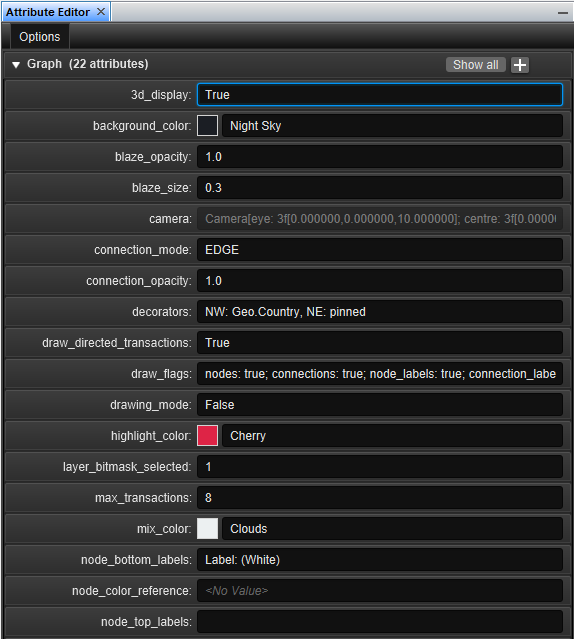
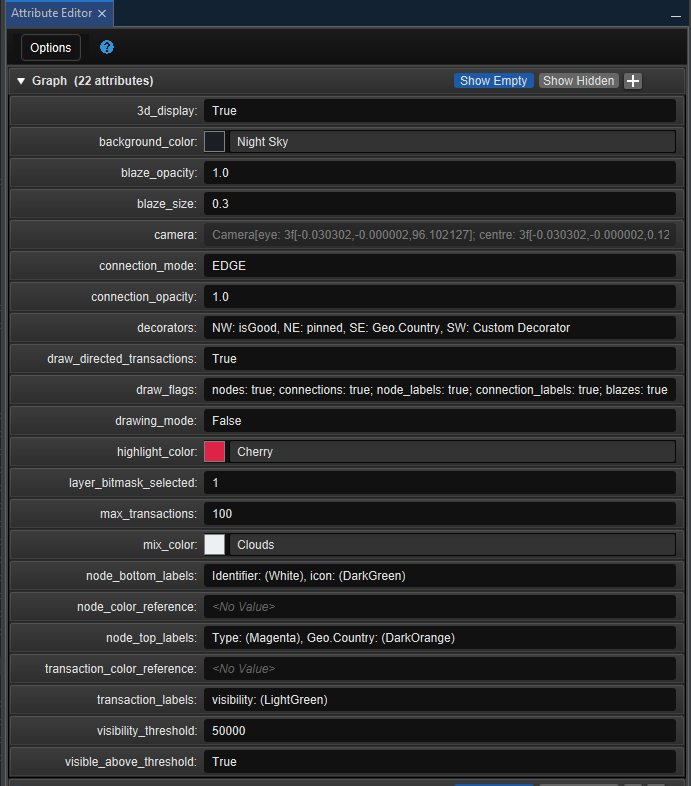
Update attribute editor help

diff --git a/CoreAttributeEditorView/src/au/gov/asd/tac/constellation/views/attributeeditor/resources/attribute-editor-light.css b/CoreAttributeEditorView/src/au/gov/asd/tac/constellation/views/attributeeditor/resources/attribute-editor-light.css
@@ -30,3 +30,10 @@
 .hidden#custom {
     -fx-base:#D3DCF1;
 }
+
+#options-menu {
+    -fx-padding: 3;
+    -fx-color: white;
+    -fx-border-color: none;
+}
+

diff --git a/CoreAttributeEditorView/src/au/gov/asd/tac/constellation/views/attributeeditor/resources/attribute-editor.css b/CoreAttributeEditorView/src/au/gov/asd/tac/constellation/views/attributeeditor/resources/attribute-editor.css
@@ -30,3 +30,9 @@
 .hidden#custom {
     -fx-base:#4f7fba;
 }
+
+#options-menu {
+    -fx-background-color: #121212;
+    -fx-border-color: none;
+}
+

diff --git a/CoreAttributeEditorView/src/au/gov/asd/tac/constellation/views/attributeeditor/AttributeEditorPanel.java b/CoreAttributeEditorView/src/au/gov/asd/tac/constellation/views/attributeeditor/AttributeEditorPanel.java
@@ -102,6 +102,7 @@ import javafx.scene.control.SelectionMode;
 import javafx.scene.control.TextField;
 import javafx.scene.control.TitledPane;
 import javafx.scene.control.ToggleButton;
+import javafx.scene.control.ToolBar;
 import javafx.scene.control.Tooltip;
 import javafx.scene.image.ImageView;
 import javafx.scene.input.ClipboardContent;
@@ -127,6 +128,7 @@ import javafx.scene.shape.Rectangle;
 import javafx.scene.text.Text;
 import javafx.scene.text.TextAlignment;
 import org.apache.commons.collections4.CollectionUtils;
+import org.openide.util.HelpCtx;
 import org.openide.util.NbPreferences;
 
 /**
@@ -160,6 +162,7 @@ public class AttributeEditorPanel extends BorderPane {
     private final ScrollPane scrollPane = new ScrollPane();
     private final MenuBar optionsBar = new MenuBar();
     private final Menu optionsMenu = new Menu("Options");
+    private final ToolBar optionsPane = new ToolBar();
     private final CheckMenuItem completeWithSchemaItem = new CheckMenuItem("Complete with Schema After Edits");
     private final Preferences prefs = NbPreferences.forModule(AttributePreferenceKey.class);
     private final AttributeEditorTopComponent topComponent;
@@ -229,9 +232,17 @@ public class AttributeEditorPanel extends BorderPane {
 
             completeWithSchemaItem.setSelected(false);
             optionsMenu.getItems().addAll(createColorsMenu(), completeWithSchemaItem);
+            optionsBar.setId("options-menu");
             optionsBar.getMenus().add(optionsMenu);
+            
+            final ImageView helpImage = new ImageView(UserInterfaceIconProvider.HELP.buildImage(16, ConstellationColor.SKY.getJavaColor()));
+            final Button helpButton = new Button("", helpImage);
+            helpButton.setStyle("-fx-border-color: transparent; -fx-background-color: transparent; -fx-effect: null; ");
+            helpButton.setOnAction(event
+                    -> new HelpCtx(this.getClass().getName()).display());
+            optionsPane.getItems().addAll(optionsBar, helpButton);
 
-            borderPane.setTop(optionsBar);
+            borderPane.setTop(optionsPane);
             borderPane.setCenter(scrollPane);
 
             root.getChildren().add(borderPane);

diff --git a/CoreAttributeEditorView/release/modules/ext/docs/CoreAttributeEditorView/src/au/gov/asd/tac/constellation/views/attributeeditor/attribute-editor.md b/CoreAttributeEditorView/release/modules/ext/docs/CoreAttributeEditorView/src/au/gov/asd/tac/constellation/views/attributeeditor/attribute-editor.md
@@ -52,7 +52,8 @@ Attribute Editor:
     a Constellation schema. They have a blue background by default.
 -   *Hidden Attributes* - These are attributes which have been hidden.
     You can hide an attribute by right-clicking on it and selecting
-    "Hide Attribute". They have a grey background by default.
+    "Hide Attribute". They have a grey background by default. These can
+    be shown again by clicking the "Show Hidden" button.
 
 ## Editing An Attribute
 
